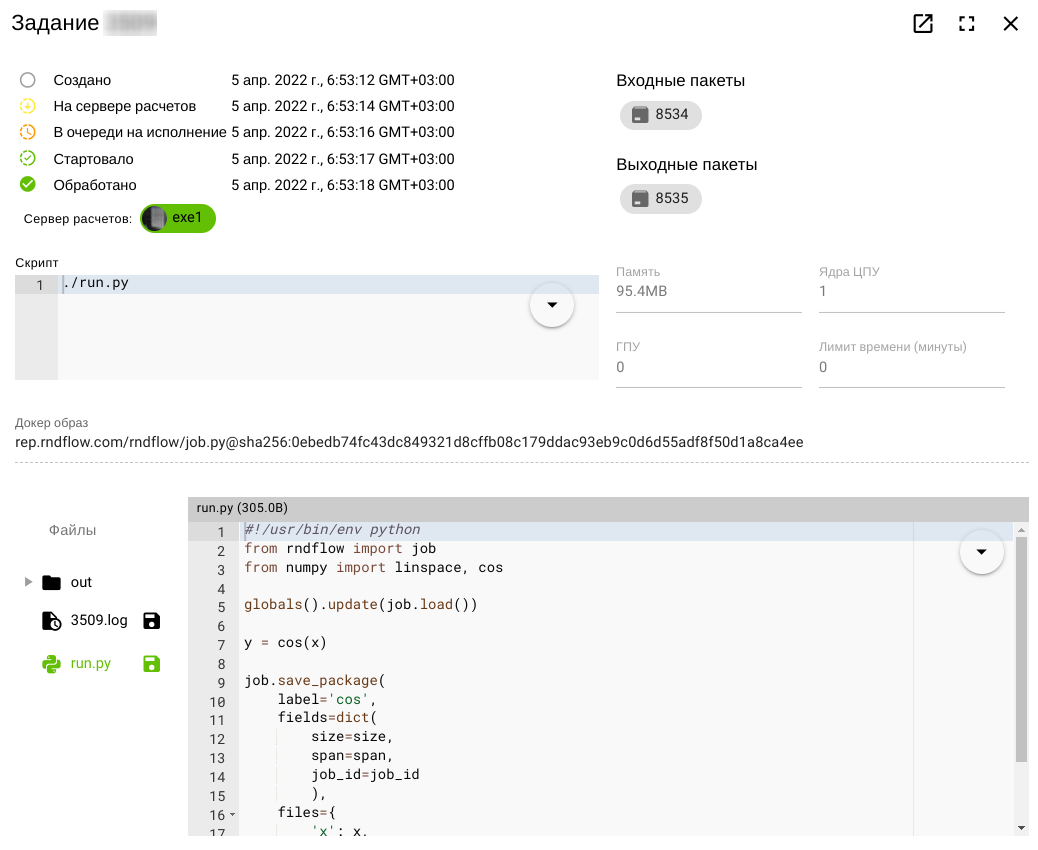
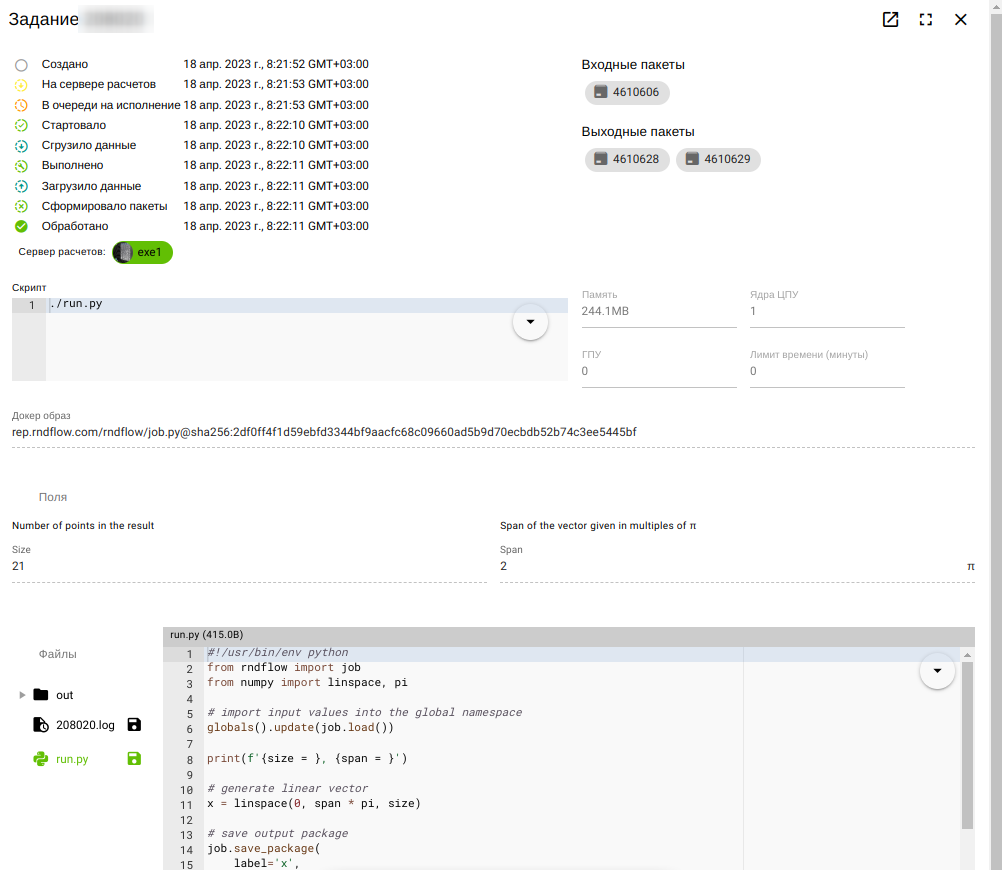
Update jobs statuses info

diff --git a/src/desc/job.md b/src/desc/job.md
@@ -22,9 +22,18 @@
 - <span class="iconify-inline" data-icon="mdi:progress-download" style="color: yellow"></span> - На [сервере расчетов][6]
 - <span class="iconify-inline" data-icon="mdi:progress-clock" style="color: orange"></span> - В очереди на исполнение
 - <span class="iconify-inline" data-icon="mdi:progress-check" style="color: green"></span> - Стартовало
+- <span class="iconify-inline" data-icon="mdi:progress-download" style="color: teal"></span> - Сгрузило данные
+    > Обрабатываемые данные загружены в контейнер задания.
+- <span class="iconify-inline" data-icon="mdi:progress-wrench" style="color: green"></span> - Выполнено
+    > Завершено выполнение [скрипта][7].
+- <span class="iconify-inline" data-icon="mdi:progress-upload" style="color: teal"></span> - Загрузило данные
+    > Созданные данные загружены в платформу.
+- <span class="iconify-inline" data-icon="mdi:progress-check" style="color: green"></span> - Сформировало пакеты
+    > Сгенерированы выходные пакеты.
 - <span class="iconify-inline" data-icon="mdi:check-circle" style="color: green"></span> - Обработано
+    > Обработка полностью успешно завершена.
 - <span class="iconify-inline" data-icon="mdi:alert-circle" style="color: red"></span> - Ошибка
-- <span class="iconify-inline" data-icon="mdi:emoticon-cry-outline" style="color: red"></span> - Отсутствует сердцебиение более 3 минут
+- <span class="iconify-inline" data-icon="mdi:emoticon-cry-outline" style="color: red"></span> - Отсутствует сердцебиение более 5 минут
 
 [1]: /docs/desc/package.md
 [2]: /docs/desc/node_params.md
@@ -32,3 +41,5 @@
 [4]: /docs/desc/nodes.md#задания
 [5]: ./project.md#слои-данных
 [6]: /docs/desc/executor.md
+[7]: /docs/desc/nodes.md#контеинер
+
